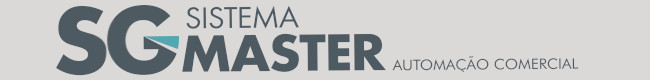
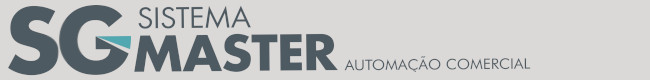
Correcao de posisao image SG Master

Changed region(s): [[0.0, 0.05, 0.8923, 0.95]]

diff --git a/index.html b/index.html
@@ -60,7 +60,7 @@
     <div class="content-section services">
       <div class="row" id="row-1">
         <div class="sgbr-container">
-          <div class="image" style="background: url('./images/sgmastergr.jpg')"></div>
+          <div class="image_left" style="background: url('./images/sgmastergr.jpg')"></div>
           <div class="service-description">
             <h2 class="service-header">Sistema de Automação Comercial</h2>
             <div style="display: flex; text-align: left">

diff --git a/css/styles.css b/css/styles.css
@@ -533,3 +533,11 @@ footer:hover {
 	width: 18rem;
 	font-size: 1rem;
 }
+
+.image_left {
+	width: auto;
+	height: 150px;
+	background-size: cover !important;
+	background-position: left !important;
+	background-repeat: no-repeat !important;
+}
